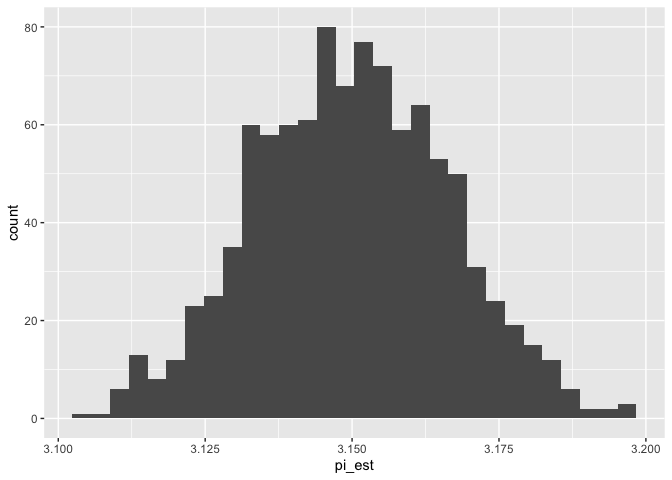
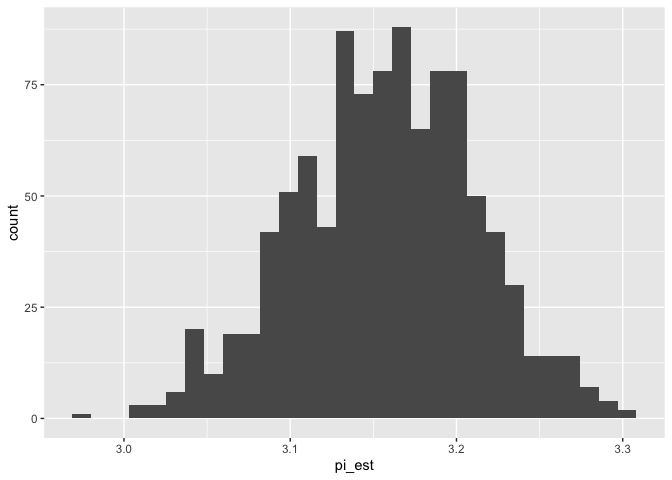
[20250407] C07 Submission 2.

diff --git a/challenges/c07-monte-carlo-assignment.md b/challenges/c07-monte-carlo-assignment.md
@@ -198,7 +198,7 @@ square $x \in [0, 1]$ and $y \in [0, 1]$.
 ## TASK: Choose a sample size and generate samples
 set.seed(42);
 
-n <- 10000 # Choose a sample size
+n <- 1000 # Choose a sample size
 df_q1 <- tibble(
   x = runif(n, min = 0, max = 1),
   y = runif(n, min = 0, max = 1) 
@@ -330,7 +330,7 @@ df_q3
     ## # A tibble: 1 × 1
     ##   pi_est
     ##    <dbl>
-    ## 1   3.15
+    ## 1   3.16
 
 Use the following to check that you’ve used the correct variable names.
 (NB. This does not check correctness.)
@@ -437,7 +437,7 @@ df_q5
     ## # A tibble: 1 × 2
     ##   pi_lo pi_up
     ##   <dbl> <dbl>
-    ## 1  3.12  3.18
+    ## 1  3.05  3.26
 
 ### **q6** CLT confidence interval
 
@@ -465,7 +465,7 @@ df_q1 %>%
     ## # A tibble: 1 × 4
     ##   pi_est     se pi_lo pi_up
     ##    <dbl>  <dbl> <dbl> <dbl>
-    ## 1   3.15 0.0164  3.12  3.18
+    ## 1   3.16 0.0516  3.05  3.26
 
 **Observations**:
 
